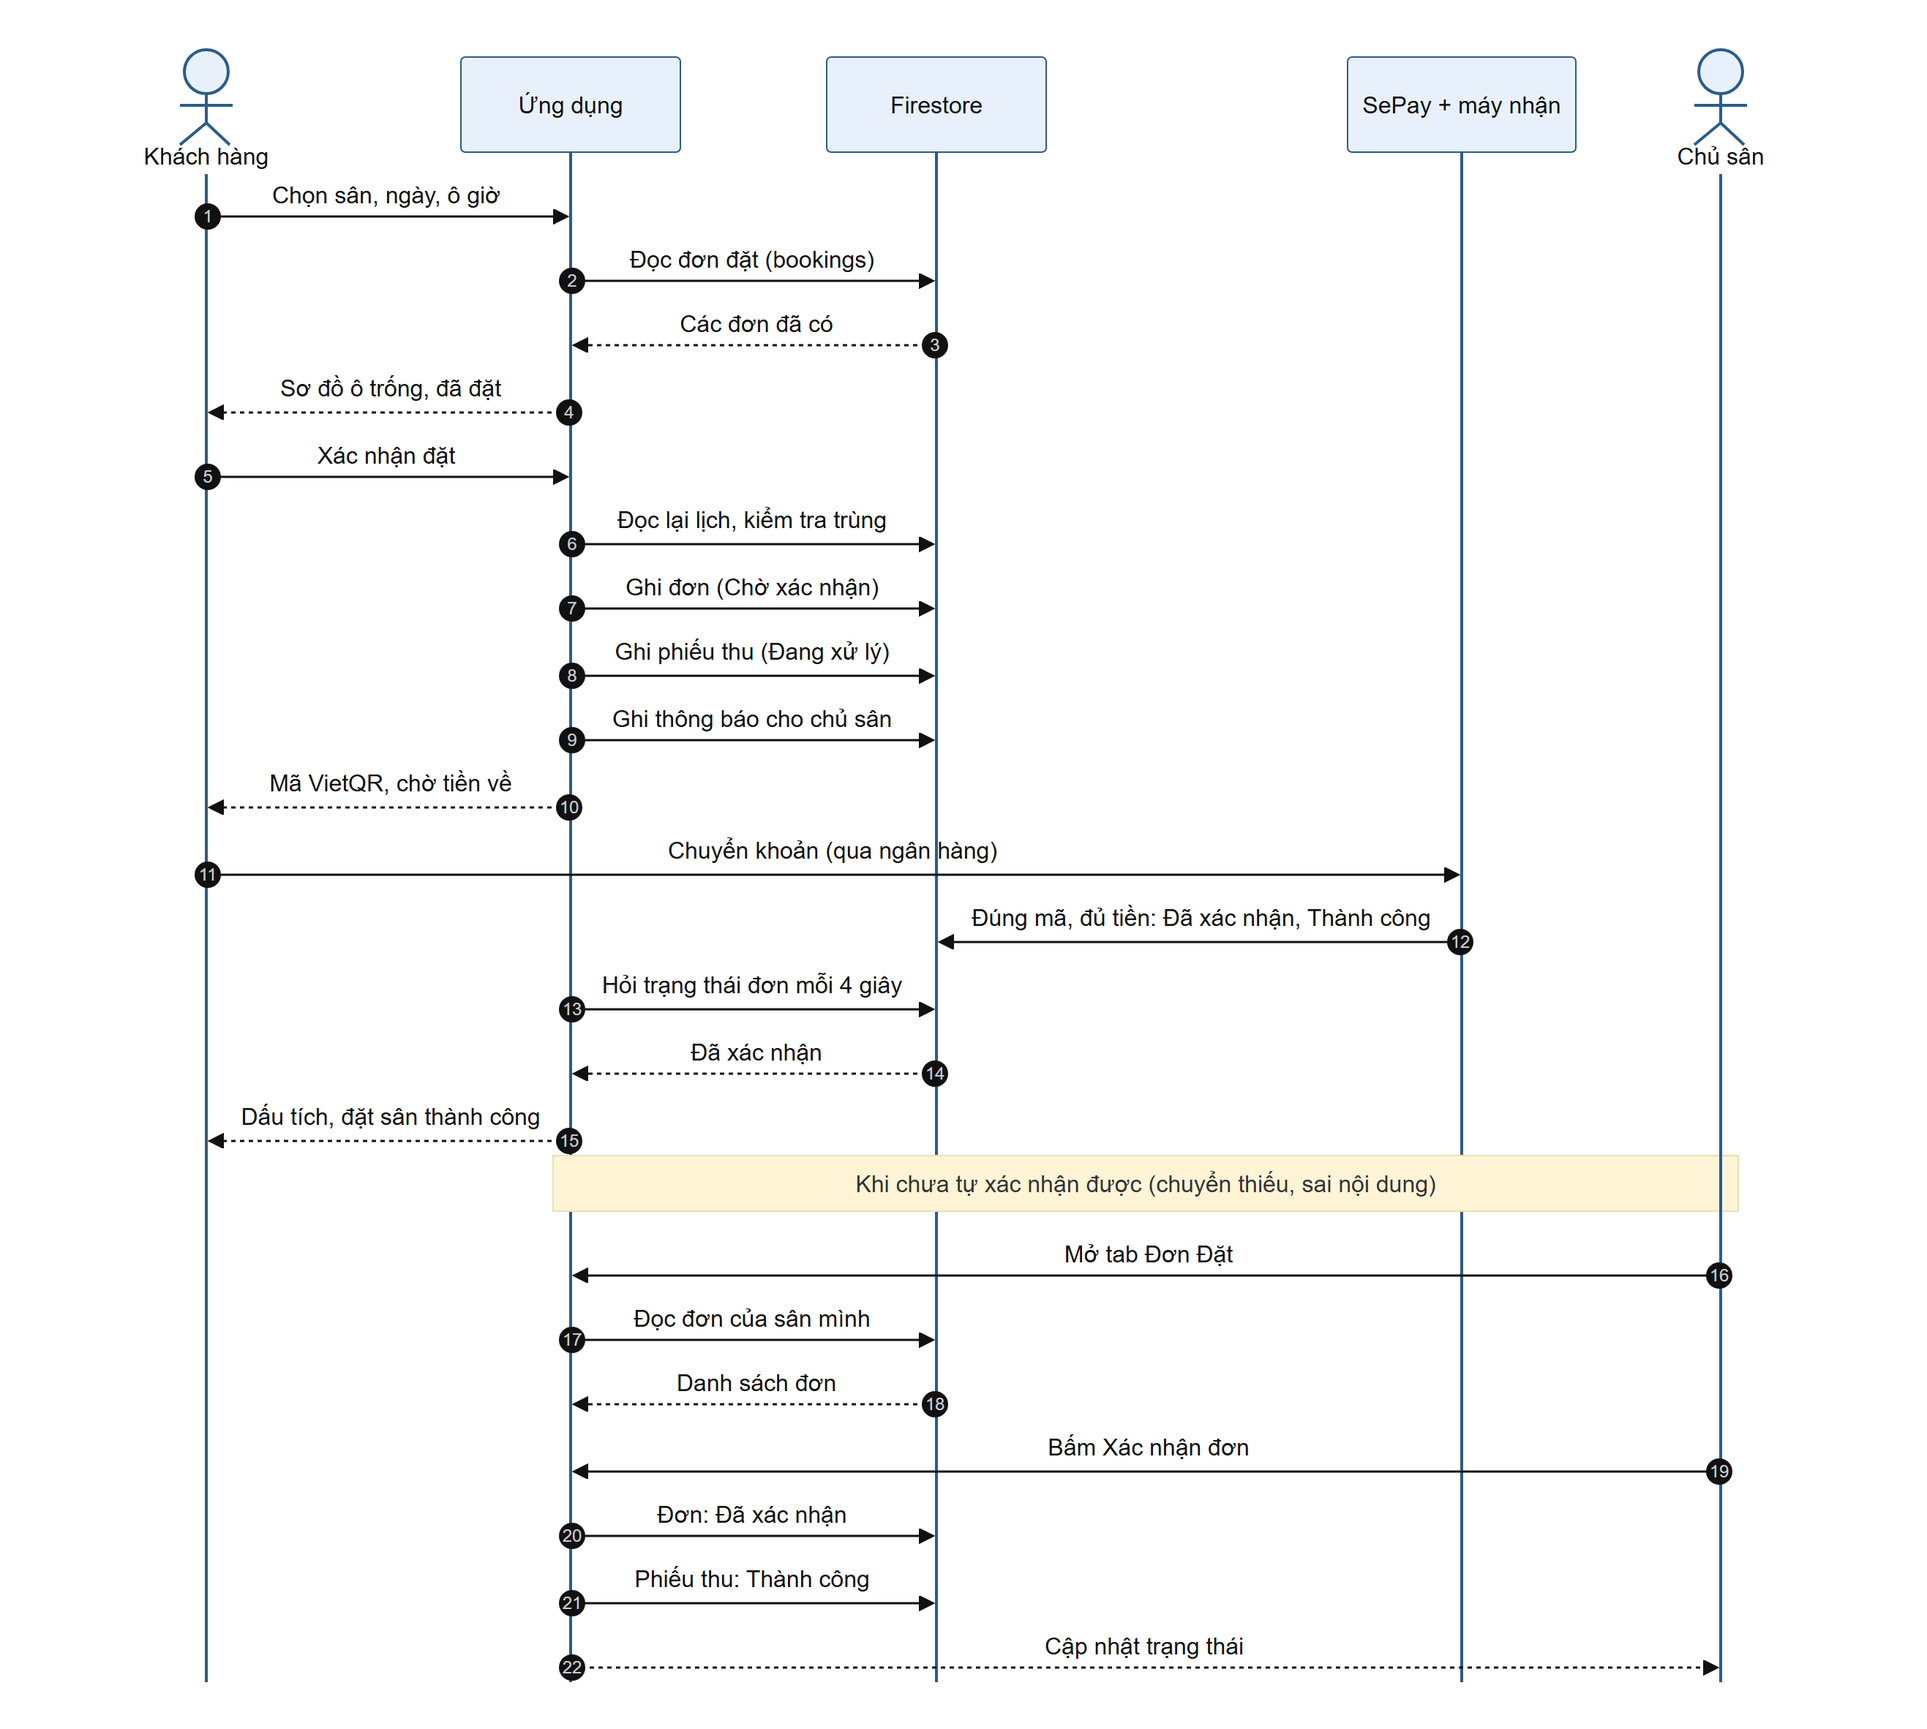
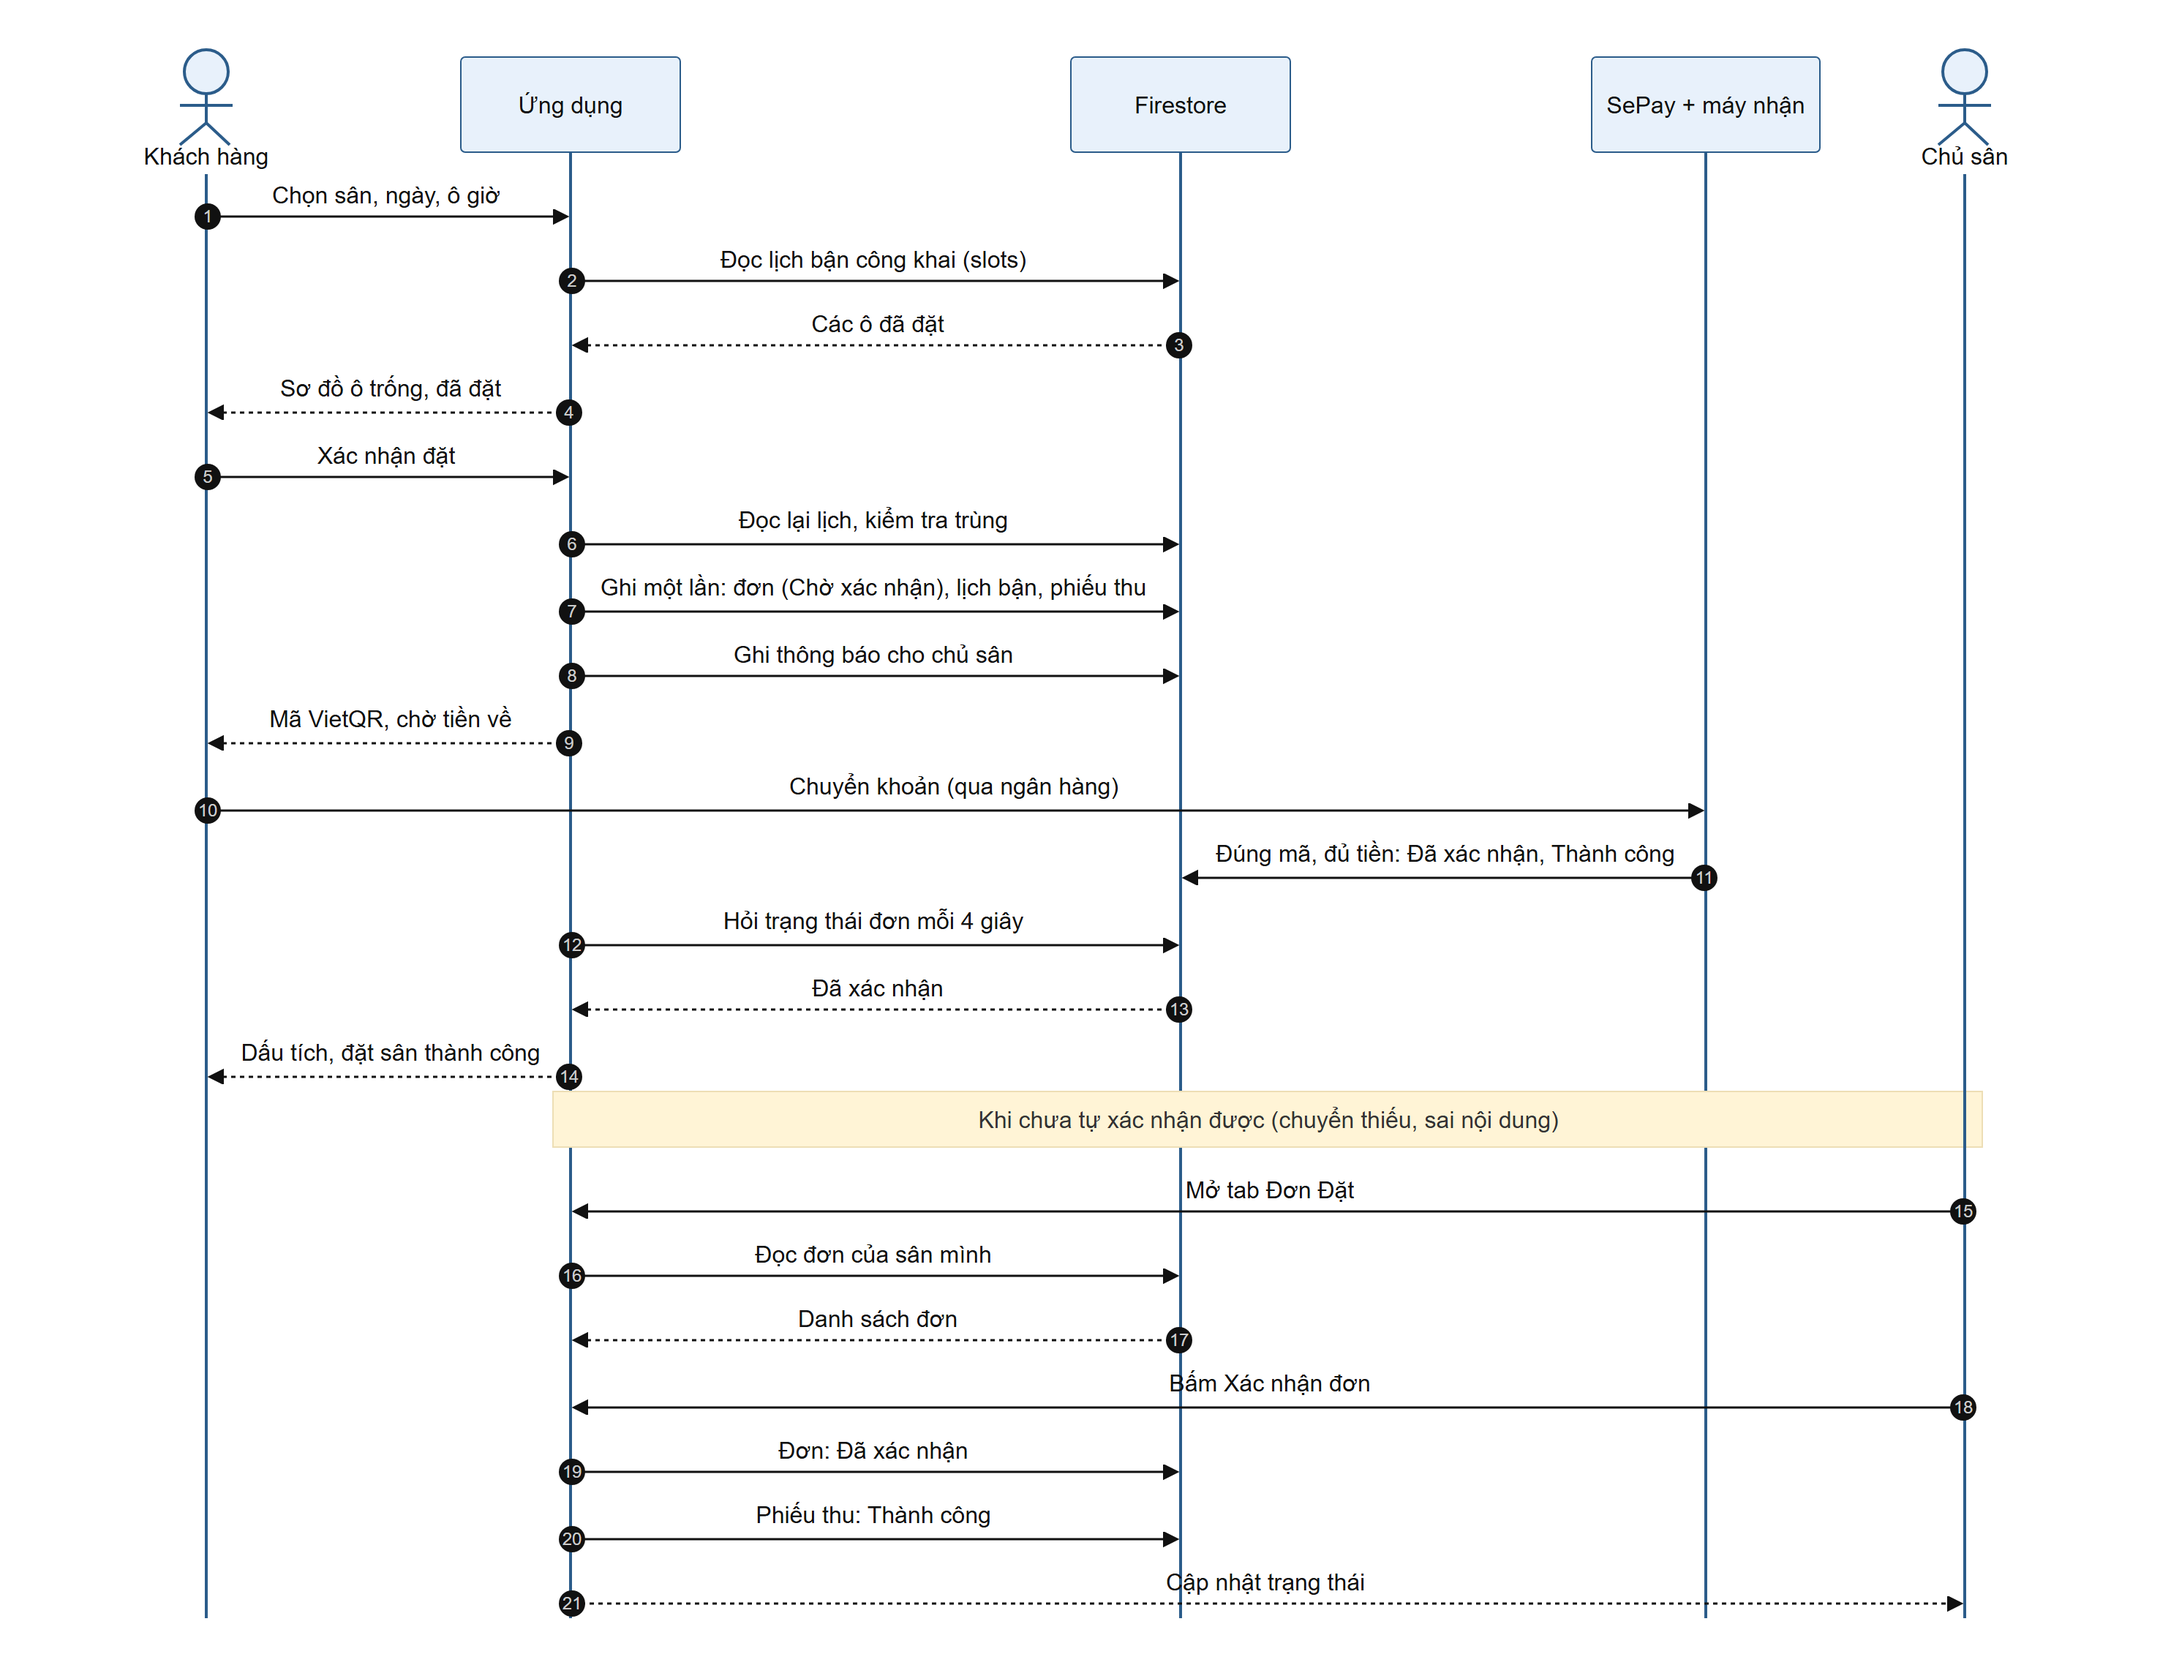
Describe Firebase Authentication and the security rules in the documents

diff --git a/docs/dac-ta-yeu-cau.md b/docs/dac-ta-yeu-cau.md
@@ -23,8 +23,8 @@ Tài liệu mô tả đúng sản phẩm hiện có trong mã nguồn. Những p
 | Thành phần | Mô tả | Công nghệ |
 |---|---|---|
 | Ứng dụng | Toàn bộ giao diện và nghiệp vụ, chạy trong trình duyệt | Flutter Web / Dart |
-| Cơ sở dữ liệu | Cloud Firestore, ứng dụng gọi trực tiếp REST API | Firestore REST |
-| Xác thực | Tài khoản lưu trong collection `users`, mật khẩu băm SHA-256 kèm salt | Tự xây trong Dart |
+| Cơ sở dữ liệu | Cloud Firestore, ứng dụng gọi REST API kèm ID token; luật bảo mật theo vai trò | Firestore REST, Security Rules |
+| Xác thực | Firebase Authentication (email, mật khẩu); `users/{uid}` lưu hồ sơ và vai trò | Identity Toolkit REST |
 | Chatbot | Truy xuất dữ liệu (lọc + BM25) rồi sinh câu trả lời | RAG + Gemini API |
 | Dự báo | Số đơn theo ngày và tỷ lệ hủy | Hồi quy Poisson (IRLS, điều chuẩn L2) và logistic (L2) viết bằng Dart thuần |
 | Thời tiết | Hiện tại, dự báo và lịch sử | Open-Meteo |
@@ -82,10 +82,13 @@ Vai trò chỉ lấy từ trường `role` đã lưu, không suy ra từ email.
 - Trạng thái đơn: Chờ xác nhận → Đã xác nhận → Hoàn thành, hoặc Đã hủy ([sơ đồ](diagrams/trang-thai-don-dat.png)).
 - Khách **không tự hủy** được đơn. Chỉ đơn đang chờ xác nhận mới hủy được trên ứng dụng, do chủ sân (hoặc quản trị viên với sân do hệ thống quản lý) thực hiện; đơn đã xác nhận không có nút hủy, sự cố và hoàn tiền xử lý ngoài ứng dụng.
 
+- Đơn, dòng lịch bận và phiếu thu được ghi trong một lần (được cả hoặc không).
+- Ô giờ đã đặt công khai ở collection `slots`, không có tên, số điện thoại hay số tiền.
+
 **Thanh toán**
 - Chỉ chuyển khoản qua mã VietQR đúng số tiền, nội dung là mã đơn.
 - Phiếu thu: Đang xử lý → Thành công hoặc Đã hoàn tiền.
-- Tự xác nhận: SePay gửi webhook có chữ ký HMAC khi tiền về; máy nhận kiểm tra đúng tài khoản, đúng mã đơn trong nội dung và đủ số tiền rồi mới xác nhận đơn. Chuyển thiếu, sai nội dung thì chủ sân xử lý thủ công.
+- Tự xác nhận: SePay gửi webhook có chữ ký HMAC khi tiền về; máy nhận kiểm tra đúng tài khoản, đúng mã đơn trong nội dung, đủ số tiền, và số tiền trên đơn không thấp hơn bảng giá của sân rồi mới xác nhận. Máy nhận đăng nhập bằng tài khoản riêng chỉ được xác nhận đơn. Không đạt thì chủ sân xử lý thủ công.
 - Màn thanh toán hỏi trạng thái đơn mỗi 4 giây (tối đa 10 phút), được xác nhận thì báo thành công và chuyển sang lịch đã đặt.
 - Hoàn tiền do chủ sân xử lý ngoài ứng dụng.
 
@@ -106,15 +109,15 @@ Vai trò chỉ lấy từ trường `role` đã lưu, không suy ra từ email.
 ## 3. YÊU CẦU PHI CHỨC NĂNG
 
 - **Hiệu năng:** danh sách sân được lưu đệm 30 phút để giảm lượt đọc Firestore (gói miễn phí có hạn mức đọc mỗi ngày).
-- **Bảo mật hiện tại:** mật khẩu băm SHA-256 kèm salt 16 byte; khóa API và tài khoản nhận tiền nằm ngoài mã nguồn; bản web công khai không chứa khóa Gemini và tài khoản demo.
+- **Bảo mật:** Firebase Authentication giữ mật khẩu; luật Firestore (`alobooking/firestore.rules`) phân quyền theo vai trò ở phía máy chủ, mặc định từ chối; khóa Gemini, khóa SePay và tài khoản nhận tiền nằm ngoài mã nguồn; bản web công khai không chứa khóa Gemini.
 - **Khả dụng:** giao diện tiếng Việt, dùng được từ màn hình điện thoại đến máy tính.
 - **Tương thích:** trình duyệt hiện đại, đã kiểm thử trên Chrome.
-- **Kiểm thử:** `flutter test`, `dart analyze --fatal-infos` (không còn vấn đề nào) và kiểm thử máy nhận webhook, chạy trên GitHub Actions (`.github/workflows/ci.yml`).
+- **Kiểm thử:** `flutter test`, `dart analyze --fatal-infos` (không còn vấn đề nào), kiểm thử máy nhận webhook, và trên bộ mô phỏng Firebase: kiểm thử luật bảo mật cùng luồng đăng ký, đặt, duyệt, hủy. Tất cả chạy trên GitHub Actions (`.github/workflows/ci.yml`).
 - **Kiểm thử tích hợp AI:** `test/integration/gemini_live_test.dart` gọi Gemini thật, tự bỏ qua khi không có khóa. Ngày 28/11/2026: ba model ưu tiên trả lời HTTP 200, model dự phòng cuối `gemini-flash-latest` quá 40 giây không trả lời.
 
 ---
 
-## 4. MA TRẬN PHÂN QUYỀN (trên giao diện)
+## 4. MA TRẬN PHÂN QUYỀN (giao diện và luật Firestore)
 
 | Chức năng | Khách vãng lai | Khách hàng | Chủ sân | Quản trị viên |
 |---|:---:|:---:|:---:|:---:|
@@ -132,13 +135,12 @@ Vai trò chỉ lấy từ trường `role` đã lưu, không suy ra từ email.
 
 ## 5. HẠN CHẾ ĐÃ BIẾT
 
-- **Phân quyền chưa được bảo vệ phía máy chủ.** Ứng dụng gọi Firestore REST không kèm token xác thực, luật Firestore đang mở (`allow read, write: if true`). Bảng ở mục 4 chỉ có hiệu lực trên giao diện. Hướng khắc phục: chuyển sang Firebase Authentication và viết luật theo `request.auth`.
-- Mật khẩu băm một vòng SHA-256 ở máy khách, chưa dùng hàm băm chậm.
-- Ghi đơn chưa dùng giao dịch, hai người đặt gần như cùng lúc vẫn có thể cùng thành công.
-- Đơn liên kết với sân bằng tên sân.
+- Luật chưa chặn được việc một người đã đăng nhập đặt giữ chỗ rồi không trả tiền, hoặc gửi thông báo rác.
+- Chưa kiểm tra trùng giờ ở máy chủ: hai người đặt gần như cùng lúc vẫn có thể cùng thành công.
+- Phiên đăng nhập chỉ giữ trong bộ nhớ, tải lại trang phải đăng nhập lại; chưa có chức năng quên mật khẩu trong ứng dụng.
+- Lịch trống và khách quen vẫn đối chiếu sân theo tên.
 - Số đơn thật còn ít nên mô hình dự báo chưa chứng minh được hiệu quả trên dữ liệu thật.
 - Chưa có cổng thanh toán; việc đối soát tự động dựa vào webhook của SePay.
-- Vì cơ sở dữ liệu đang mở, trạng thái đơn có thể bị sửa mà không qua máy nhận; chủ sân nên đối chiếu lịch sử giao dịch.
 
 ## 6. CHƯA THỰC HIỆN (hướng phát triển)
 

diff --git a/docs/report/BCĐATN_DINHNGOCHUY_2251162033.docx.md b/docs/report/BCĐATN_DINHNGOCHUY_2251162033.docx.md
@@ -30,7 +30,7 @@ Trong bối cảnh các hoạt động thể thao ngày càng phát triển, nhu
 
 ### 1. Phân tích và thiết kế hệ thống:
 
-Xác định các yêu cầu chức năng và phi chức năng; phân tích quy trình đặt và duyệt đơn đặt sân; thiết kế dữ liệu trên Cloud Firestore gồm người dùng, cụm sân, đơn đặt, phiếu thu, đánh giá, tin tức và thông báo; thiết kế kiến trúc tổng thể và phân quyền người dùng.
+Xác định các yêu cầu chức năng và phi chức năng; phân tích quy trình đặt và duyệt đơn đặt sân; thiết kế dữ liệu trên Cloud Firestore gồm người dùng, cụm sân, đơn đặt, phiếu thu, đánh giá, tin tức và thông báo; thiết kế kiến trúc tổng thể, phân quyền người dùng và luật bảo mật phía máy chủ.
 
 Hệ thống có các nhóm người dùng:
 
@@ -55,7 +55,7 @@ Kiểm tra lại lịch ngay trước khi ghi đơn để hạn chế nhiều ng
 
 ### 4. Xây dựng module quản lý khách hàng và thanh toán:
 
-Đăng ký, đăng nhập (mật khẩu được băm kèm salt), xem lịch sử đặt sân, đánh giá sân đã chơi, đánh dấu sân yêu thích và nhận thông báo.
+Đăng ký, đăng nhập bằng Firebase Authentication, xem lịch sử đặt sân, đánh giá sân đã chơi, đánh dấu sân yêu thích và nhận thông báo.
 
 Phương thức thanh toán:
 
@@ -102,6 +102,7 @@ Nghiên cứu các công nghệ sử dụng:
 - Flutter, Dart: xây dựng giao diện, nghiệp vụ và mô hình dự báo.
 - Material Design: thiết kế giao diện và các thành phần tương tác.
 - Cloud Firestore (REST API): lưu trữ và truy xuất dữ liệu.
+- Firebase Authentication và Firestore Security Rules: đăng nhập và phân quyền phía máy chủ.
 - Firebase Hosting: triển khai ứng dụng web.
 - Gemini API và xếp hạng BM25: truy xuất tri thức và sinh câu trả lời cho chatbot.
 - Open-Meteo: dự báo thời tiết và dữ liệu thời tiết lịch sử.
@@ -220,7 +221,7 @@ Triển khai ứng dụng web trên Firebase Hosting; dữ liệu lưu trên Clo
 
 Thực hiện kiểm thử tự động (chạy trên GitHub Actions) và kiểm thử trên trình duyệt đối với:
 
-- Đăng nhập và phân quyền.
+- Đăng nhập, phân quyền và luật bảo mật.
 - Quản lý sân.
 - Đặt sân.
 - Tính giá và mã VietQR.
@@ -249,7 +250,7 @@ Sửa lỗi, tối ưu số lượt đọc dữ liệu và hoàn thiện tài li
 - Chatbot trả lời câu hỏi dựa trên dữ liệu của hệ thống.
 - Mô hình dự báo số đơn 7 ngày tới, công bố trung thực sai số và mức tin cậy.
 - Ứng dụng được triển khai thử nghiệm trên Firebase Hosting.
-- Vượt qua bộ kiểm thử tự động cho các chức năng cốt lõi; phân quyền theo vai trò trong ứng dụng.
+- Vượt qua bộ kiểm thử tự động cho các chức năng cốt lõi; phân quyền theo vai trò ở ứng dụng và bằng luật bảo mật Firestore.
 ## KẾ HOẠCH THỰC HIỆN
 
 | TT | Thời gian | Nội dung công việc | Kết quả dự kiến đạt được |

diff --git a/docs/report/Checklist_DoAnTotNghiep_DinhNgocHuy.md b/docs/report/Checklist_DoAnTotNghiep_DinhNgocHuy.md
@@ -38,7 +38,7 @@ Cập nhật theo sản phẩm thực tế. `[x]` đã xong, `[ ]` chưa làm.
 - [x] GitHub Actions chạy `dart analyze --fatal-infos` và kiểm thử.
 - [x] Kiểm thử tích hợp gọi Gemini thật (`test/integration/gemini_live_test.dart`).
 - [x] Triển khai web trên Firebase Hosting: https://alobooking-b2484.web.app
-- [ ] Bảo mật phía máy chủ (Firebase Authentication + luật Firestore).
+- [x] Bảo mật phía máy chủ (Firebase Authentication + luật Firestore).
 - [ ] Hoàn thiện cuốn báo cáo với ảnh giao diện mới.
 - [ ] Chuẩn bị slide thuyết trình.
 - [ ] Hồ sơ bảo vệ.
